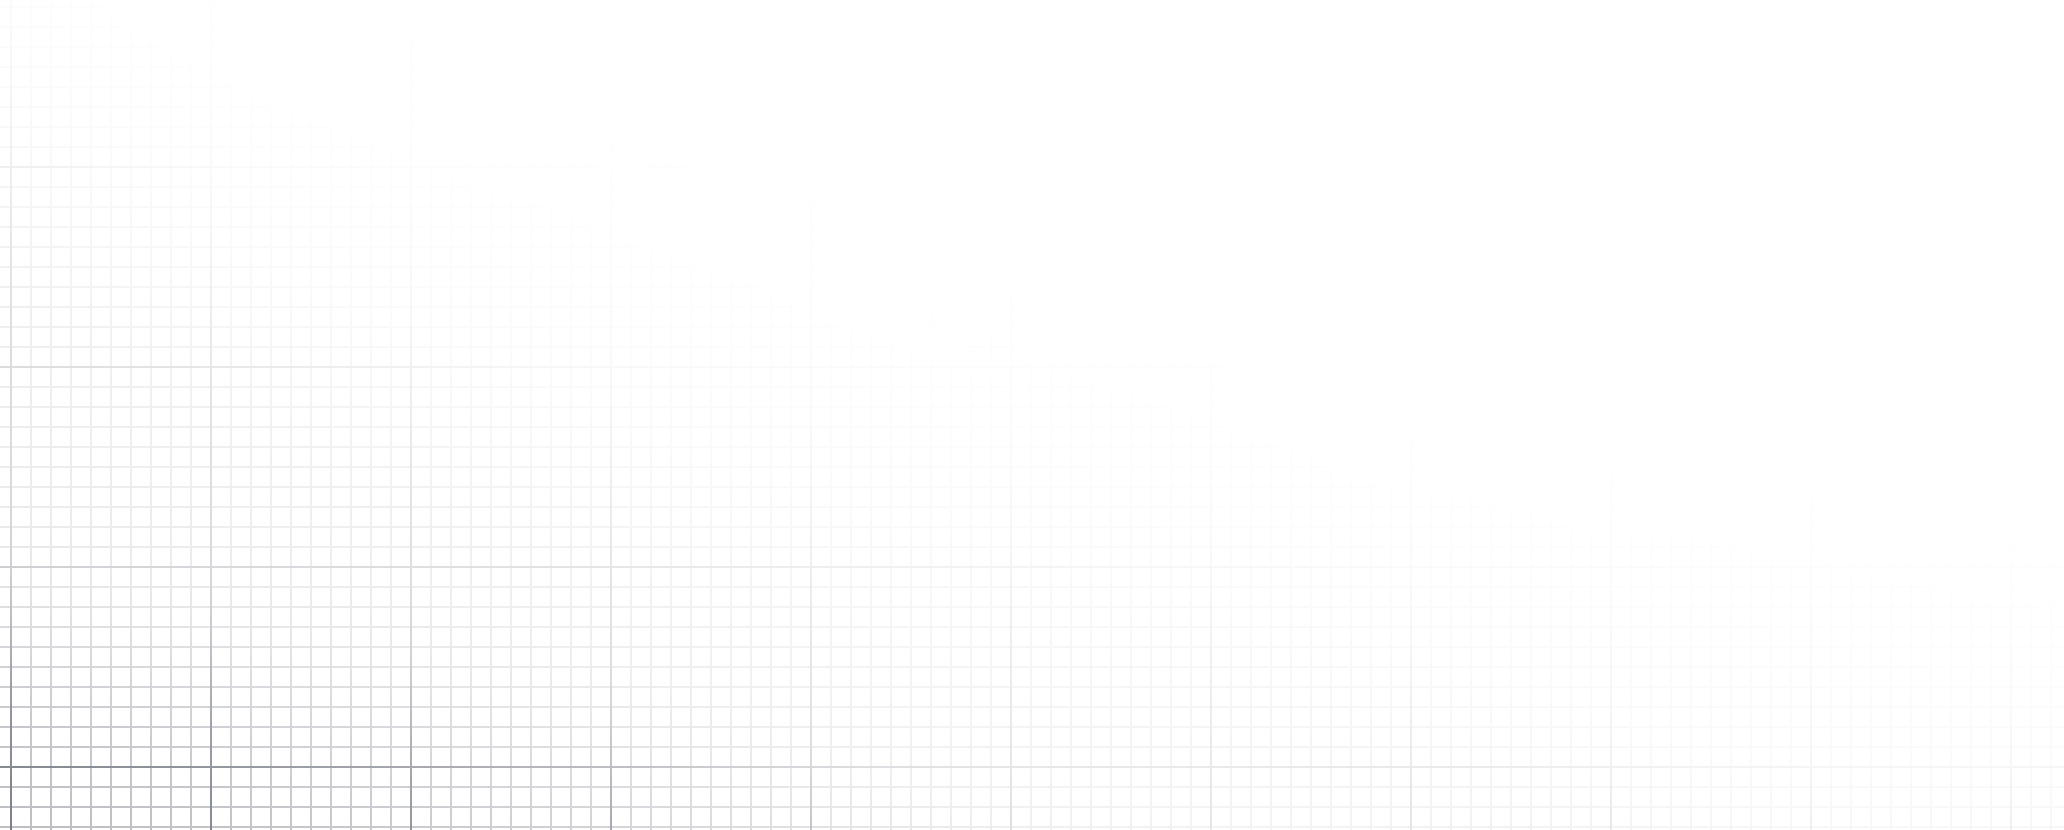
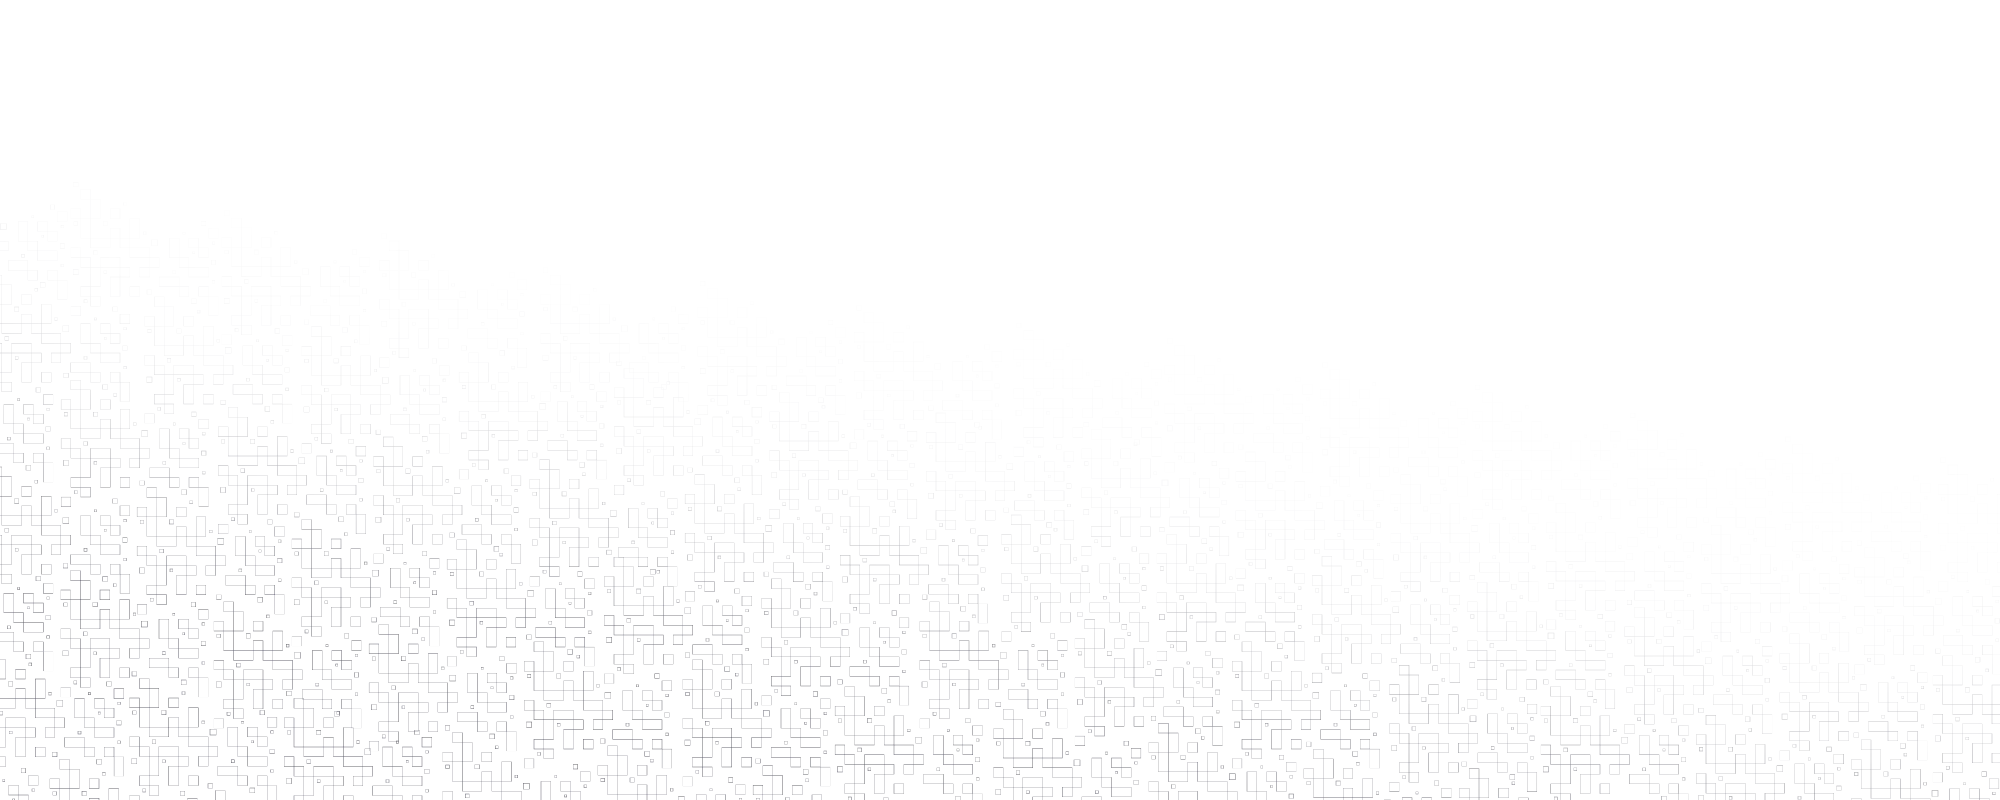
add new images into projects

diff --git a/frontend/src/components/ChatBot.js b/frontend/src/components/ChatBot.js
@@ -149,7 +149,8 @@ const ChatBot = () => {
 
             <div className="h-full flex flex-col justify-end bg-base-300 rounded overflow-hidden">
 
-                <div className="chat-area p-3 rounded-lg overflow-auto border border-base-300">
+                <div className="chat-area p-3 rounded-lg overflow-auto border border-base-300 relative h-full flex justify-end flex-col">
+                    <img src={patternImage} alt="pattern" className="absolute top-0 left-0 w-full h-full object-cover opacity-40" />
                 
                     {messages.map((message, index) => (
                         <div key={index} className={`chat w-full ${message.response === 'assistant' ? 'chat-start' : 'chat-end'}`}>

diff --git a/frontend/src/components/Hero.js b/frontend/src/components/Hero.js
@@ -9,7 +9,7 @@ const Hero = ({ data }) => {
 
     return (
         <div className={`home min-h-dvh grid place-items-center py-24 px-4 relative ${data.bg}`}>
-            <img src={patternImage} alt="pattern" className="absolute inset-0 object-cover w-full h-full z-0 opacity-20" />
+            <img src={patternImage} alt="pattern" className="absolute inset-0 object-cover w-full h-full z-0 opacity-40" />
             <div className="container mx-auto mt-8">
                 <div className="max-w-full hero-content flex-col xl:flex-row-reverse justify-between mx-auto p-0">
                     <div className="max-w-2xl w-full h-full">
